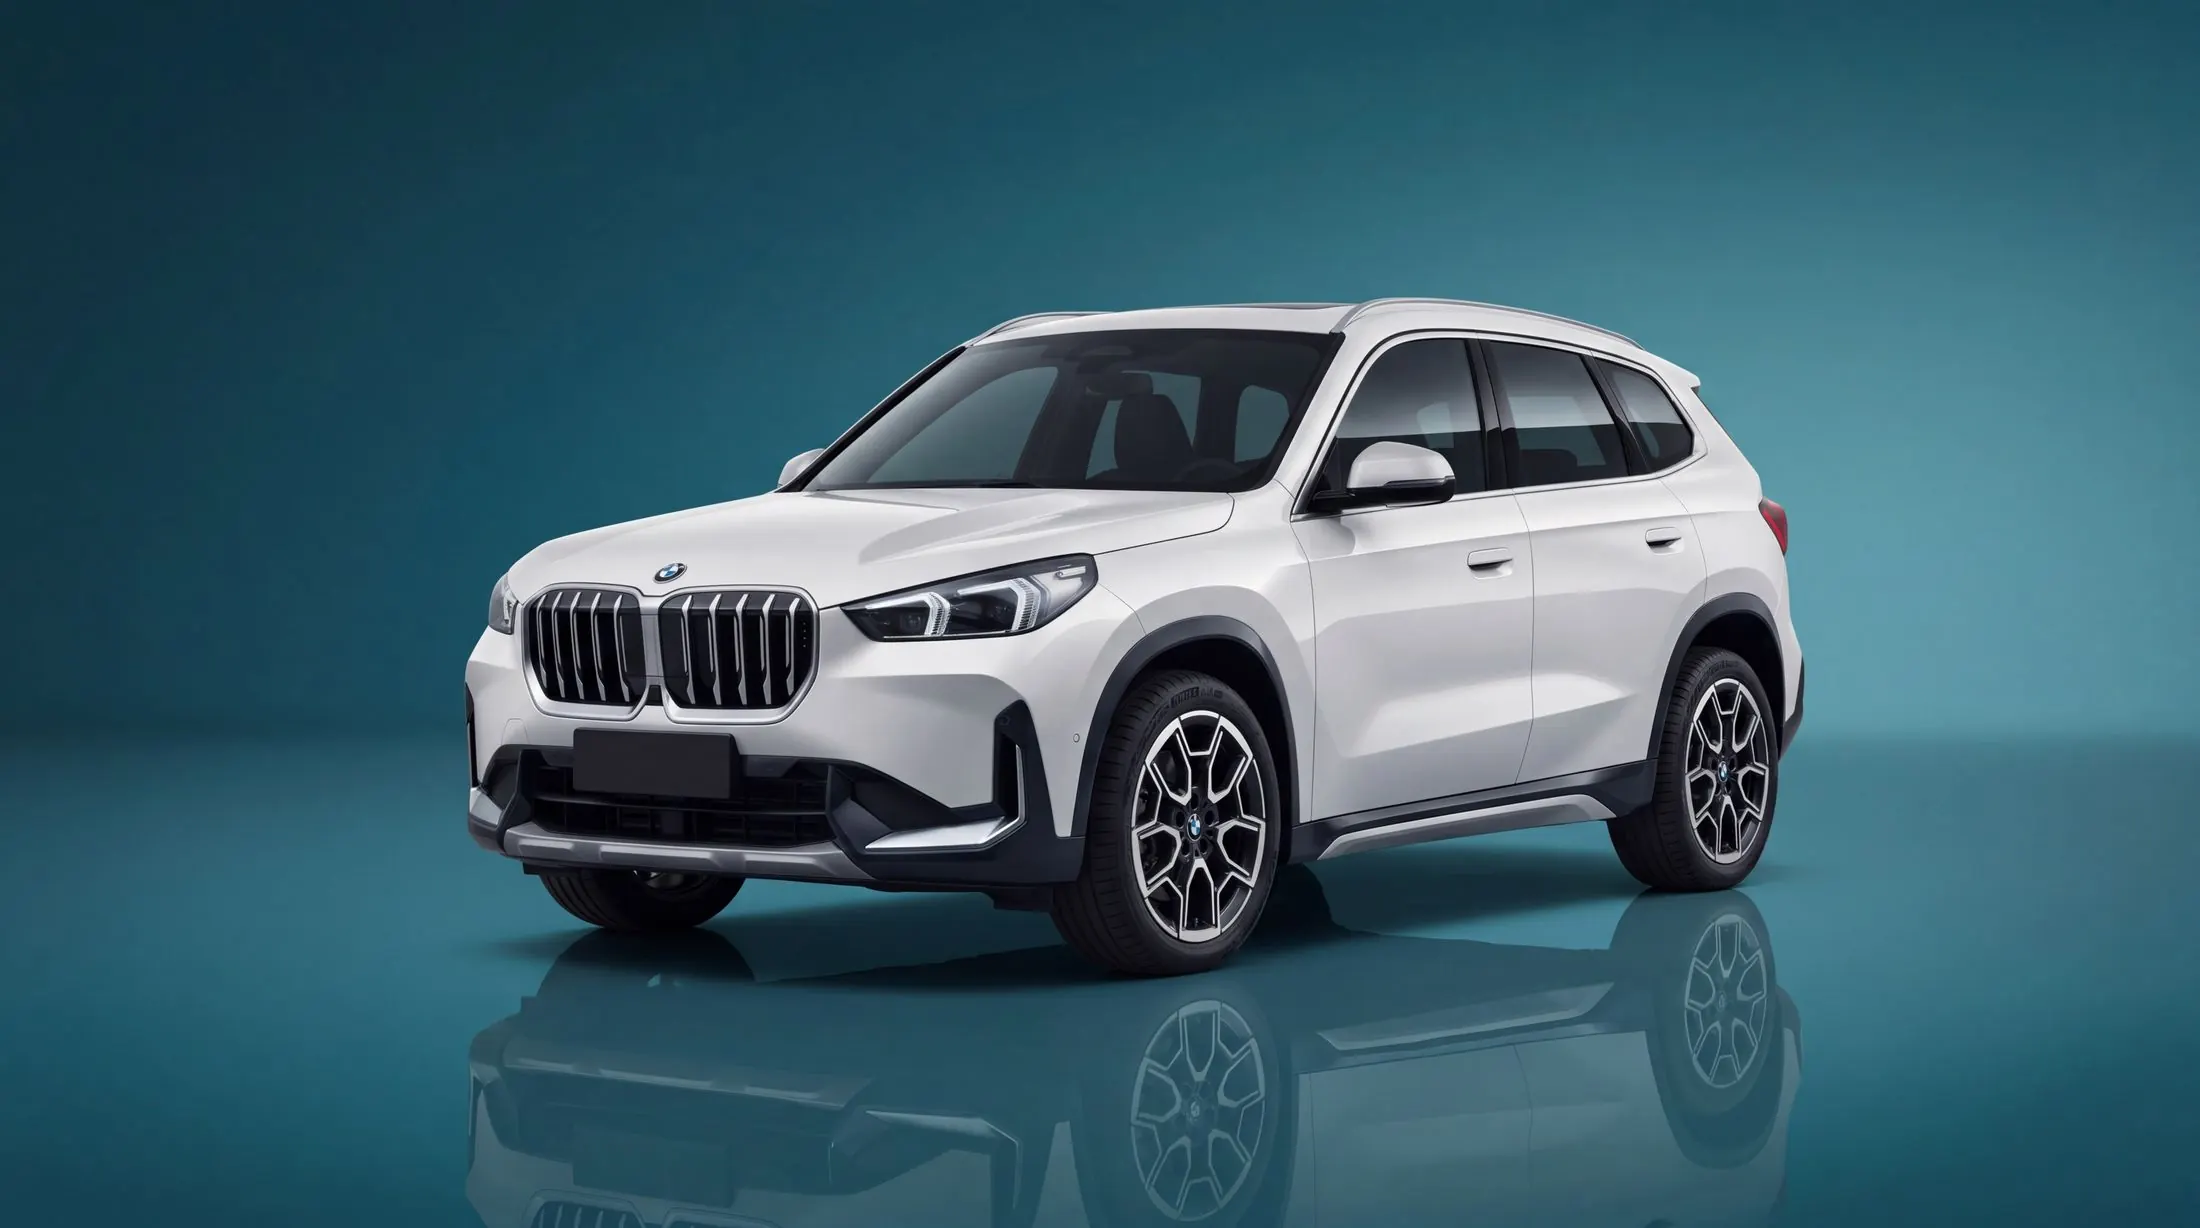
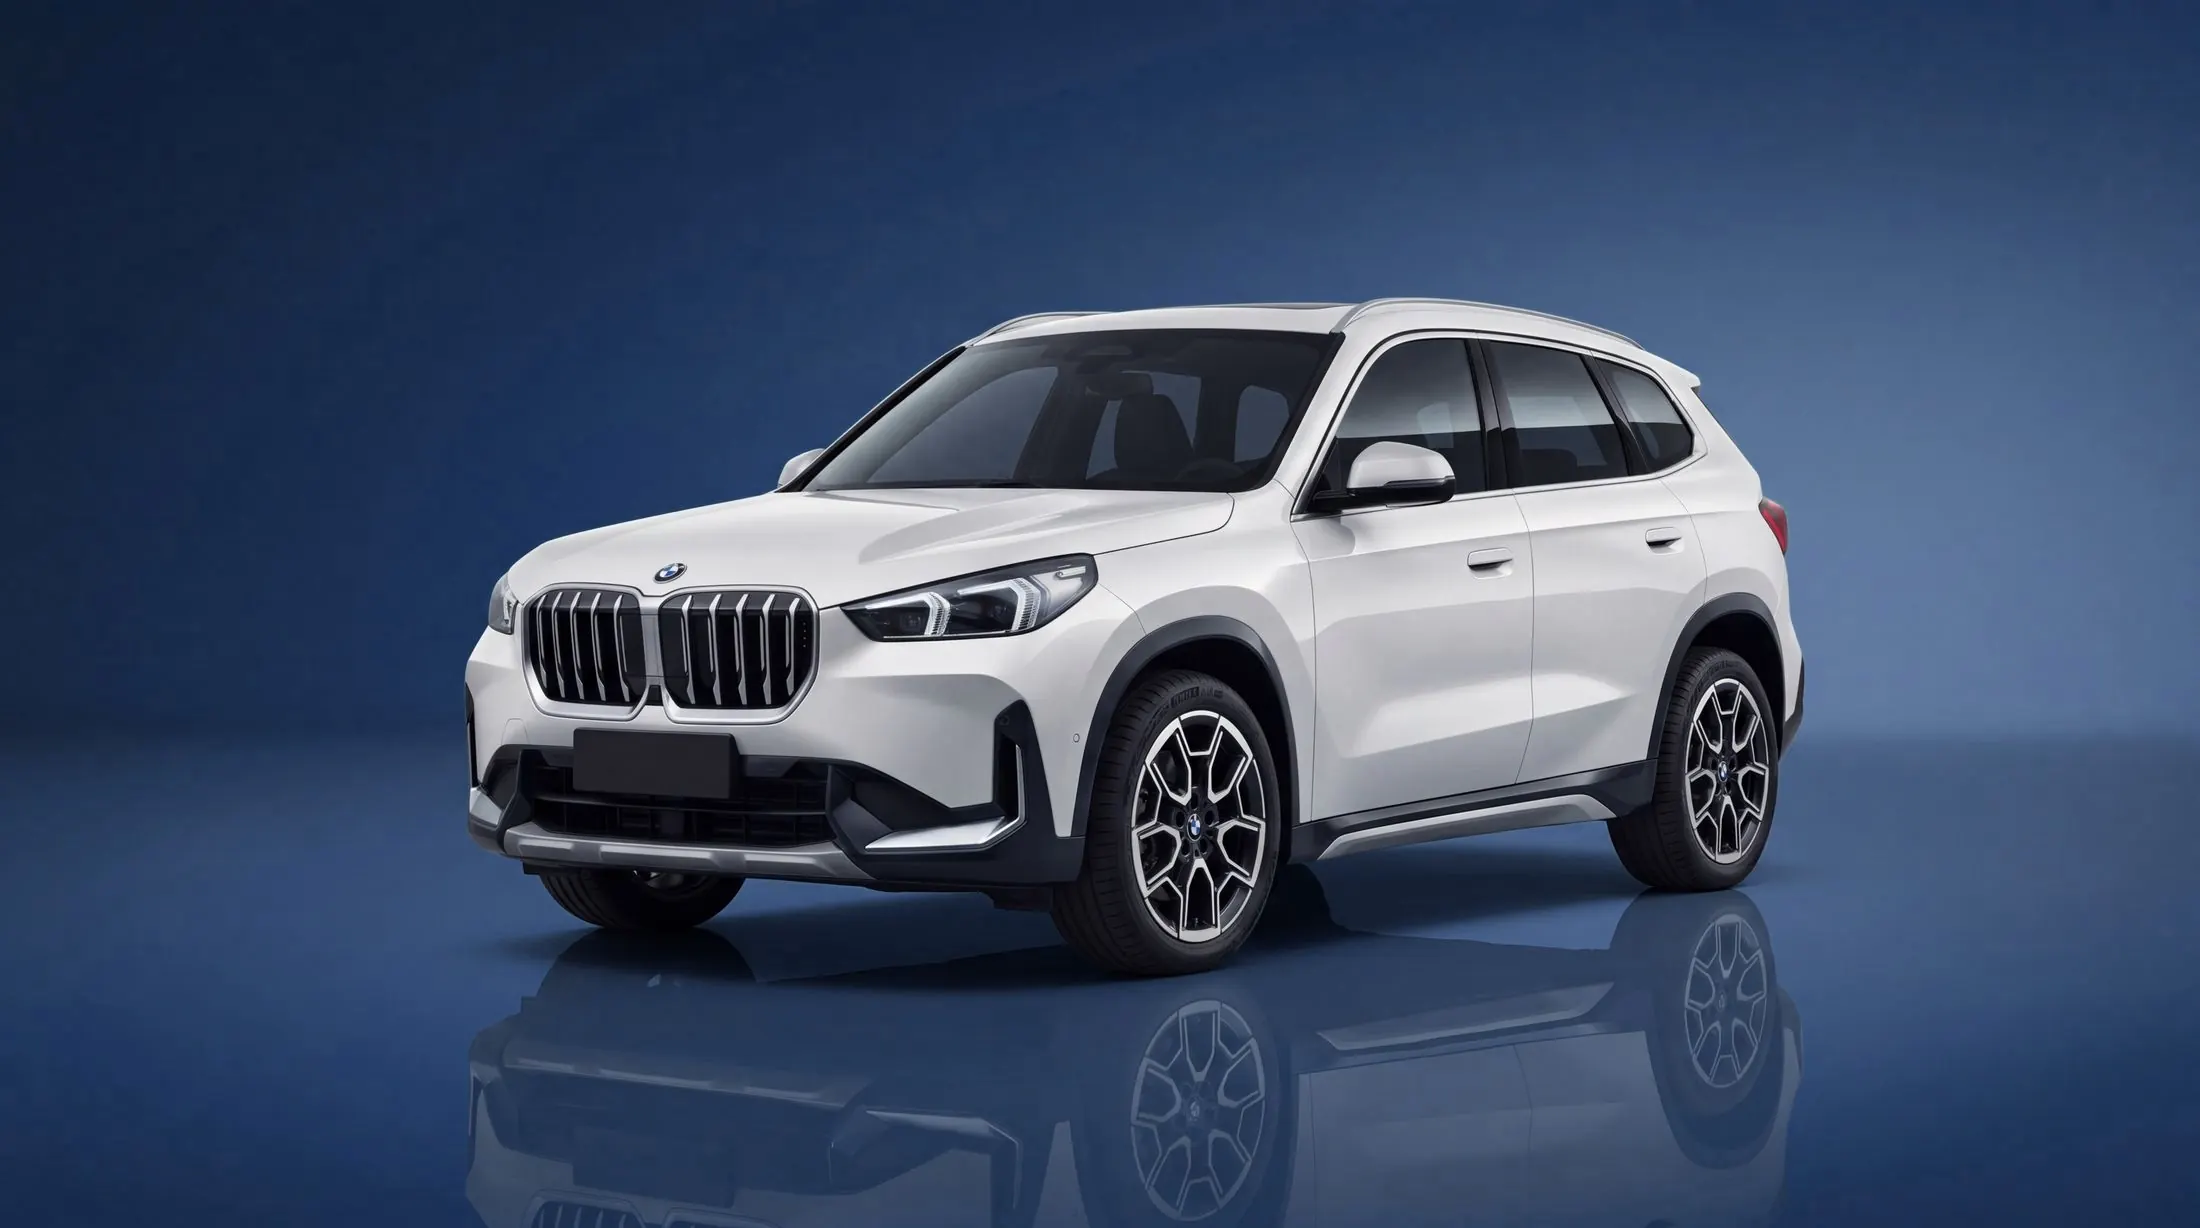
Цвета поменяли местами: yurazol.ru бирюзовый, МТК синий (по просьбе Юрия)

diff --git a/docs/index.html b/docs/index.html
@@ -16,7 +16,7 @@
 <meta property="og:image:width" content="1200">
 <meta property="og:image:height" content="630">
 <meta name="twitter:card" content="summary_large_image">
-<meta name="theme-color" content="#f4f8f9">
+<meta name="theme-color" content="#f5f7fb">
 <link rel="preload" href="assets/fonts/Unbounded-cyrillic.woff2" as="font" type="font/woff2" crossorigin>
 <link rel="preload" href="assets/fonts/RobotoFlex-cyrillic.woff2" as="font" type="font/woff2" crossorigin>
 <script>try{var _f=[.9,1,1.12,1.25,1.4][parseInt(localStorage.getItem('yz-fs'),10)];if(_f)document.documentElement.style.setProperty('--fs',_f)}catch(e){}</script>
@@ -26,8 +26,8 @@
 @font-face{font-family:'Roboto Flex';src:url('assets/fonts/RobotoFlex-cyrillic.woff2') format('woff2');font-weight:100 1000;font-display:swap;unicode-range:U+0301,U+0400-045F,U+0490-0491,U+04B0-04B1,U+2116}
 @font-face{font-family:'Roboto Flex';src:url('assets/fonts/RobotoFlex-latin.woff2') format('woff2');font-weight:100 1000;font-display:swap;unicode-range:U+0000-00FF,U+0131,U+0152-0153,U+2000-206F,U+2122,U+20BD,U+00A5}
 
-:root{--bg:#f5f7fb;--bg2:#eaf0f8;--card:#fff;--card2:#fbfcfe;--line:rgba(29,61,107,.14);--ink:#0e1b2e;--muted:rgba(14,27,46,.66);
---acc:#2b5797;--acc2:#1d3d6b;--soft:#e6edf7;--glow:rgba(43,87,151,.16);--sh:0 1px 2px rgba(14,27,46,.05),0 12px 34px -14px rgba(29,61,107,.22);
+:root{--bg:#f4f8f9;--bg2:#e4f0f2;--card:#fff;--card2:#fbfdfd;--line:rgba(19,84,99,.15);--ink:#0d1d22;--muted:rgba(13,29,34,.66);
+--acc:#1d7a8c;--acc2:#135463;--soft:#e2f0f2;--glow:rgba(29,122,140,.17);--sh:0 1px 2px rgba(13,29,34,.05),0 12px 34px -14px rgba(19,84,99,.25);
 --g1:#efd27a;--g2:#c9a227;--gt1:#c39a1f;--gt2:#8a6a12;--gink:#1a1405}
 html.wine{--bg:#faf6f4;--bg2:#f3e9e6;--line:rgba(110,30,48,.14);--ink:#24101a;--muted:rgba(36,16,26,.66);
 --acc:#7a1f33;--acc2:#561525;--soft:#f4e4e7;--glow:rgba(122,31,51,.14);--sh:0 1px 2px rgba(36,16,26,.05),0 12px 34px -14px rgba(86,21,37,.22)}
@@ -259,8 +259,8 @@ section.sec{padding:90px 0 10px}
 .links a{padding:18px 2px}
 }
 
-html.mtk{--bg:#f4f8f9;--bg2:#e4f0f2;--card:#fff;--line:rgba(19,84,99,.15);--ink:#0d1d22;--muted:rgba(13,29,34,.66);
---acc:#1d7a8c;--acc2:#135463;--soft:#e2f0f2;--glow:rgba(29,122,140,.17);--sh:0 1px 2px rgba(13,29,34,.05),0 12px 34px -14px rgba(19,84,99,.25)}
+html.mtk{--bg:#f5f7fb;--bg2:#eaf0f8;--card:#fff;--card2:#fbfcfe;--line:rgba(29,61,107,.14);--ink:#0e1b2e;--muted:rgba(14,27,46,.66);
+--acc:#2b5797;--acc2:#1d3d6b;--soft:#e6edf7;--glow:rgba(43,87,151,.16);--sh:0 1px 2px rgba(14,27,46,.05),0 12px 34px -14px rgba(29,61,107,.22)}
 html.mtk.navy{--bg:#f4f6fa;--bg2:#e7ecf4;--line:rgba(20,39,70,.15);--ink:#0c1626;--acc:#1f3a68;--acc2:#142746;--soft:#e4e9f2;--glow:rgba(31,58,104,.16)}
 html.mtk.indigo{--bg:#f5f5fb;--bg2:#e9e9f6;--line:rgba(39,50,109,.15);--ink:#11132a;--acc:#3b4a9c;--acc2:#27326d;--soft:#e7e8f5;--glow:rgba(59,74,156,.16)}
 .wm{font-family:'Unbounded',sans-serif;font-weight:700;letter-spacing:.01em}

diff --git a/build.py b/build.py
@@ -1,4 +1,4 @@
-"""Сайт МТК Восток-Авто — та же страница, что yurazol.ru, со своим брендом, цветом и порядком блоков.
+"""Сайт МТК Восток-Авто — та же страница, что yurazol.ru, со своим брендом, цветом (синий КП; у yurazol.ru бирюзовый) и порядком блоков.
 
 Берёт исходник ../yurazol.ru/src/index.html, меняет бренд, собирает тем же render() и пишет docs/index.html.
 Картинки — из ../yurazol.ru/docs/assets (сначала prep_assets.py там, если их меняли). Запуск: python3 build.py
@@ -18,8 +18,8 @@ OUT = ROOT / "docs"
 IMG = OUT / "assets" / "img"
 
 PALETTE = """
-html.mtk{--bg:#f4f8f9;--bg2:#e4f0f2;--card:#fff;--line:rgba(19,84,99,.15);--ink:#0d1d22;--muted:rgba(13,29,34,.66);
---acc:#1d7a8c;--acc2:#135463;--soft:#e2f0f2;--glow:rgba(29,122,140,.17);--sh:0 1px 2px rgba(13,29,34,.05),0 12px 34px -14px rgba(19,84,99,.25)}
+html.mtk{--bg:#f5f7fb;--bg2:#eaf0f8;--card:#fff;--card2:#fbfcfe;--line:rgba(29,61,107,.14);--ink:#0e1b2e;--muted:rgba(14,27,46,.66);
+--acc:#2b5797;--acc2:#1d3d6b;--soft:#e6edf7;--glow:rgba(43,87,151,.16);--sh:0 1px 2px rgba(14,27,46,.05),0 12px 34px -14px rgba(29,61,107,.22)}
 html.mtk.navy{--bg:#f4f6fa;--bg2:#e7ecf4;--line:rgba(20,39,70,.15);--ink:#0c1626;--acc:#1f3a68;--acc2:#142746;--soft:#e4e9f2;--glow:rgba(31,58,104,.16)}
 html.mtk.indigo{--bg:#f5f5fb;--bg2:#e9e9f6;--line:rgba(39,50,109,.15);--ink:#11132a;--acc:#3b4a9c;--acc2:#27326d;--soft:#e7e8f5;--glow:rgba(59,74,156,.16)}
 .wm{font-family:'Unbounded',sans-serif;font-weight:700;letter-spacing:.01em}
@@ -46,7 +46,7 @@ def build():
     s = s.replace("https://yurazol.ru/", "https://mtk-vostok-avto.ru/")
     s = s.replace('content="YuraZol Авто"', 'content="МТК Восток-Авто"')
     s = s.replace('content="YuraZol Авто — автомобили из Китая под ключ"', 'content="МТК Восток-Авто — автомобили из Китая под ключ"')
-    s = sub(s, '<meta name="theme-color" content="#f5f7fb">', '<meta name="theme-color" content="#f4f8f9">')
+    s = sub(s, '<meta name="theme-color" content="#f4f8f9">', '<meta name="theme-color" content="#f5f7fb">')
     s = re.sub(r'<link rel="icon"[^>]*>\n<link rel="apple-touch-icon"[^>]*>\n', "", s)   # логотипа пока нет
     s = sub(s, "</style>", PALETTE + "</style>")
 
